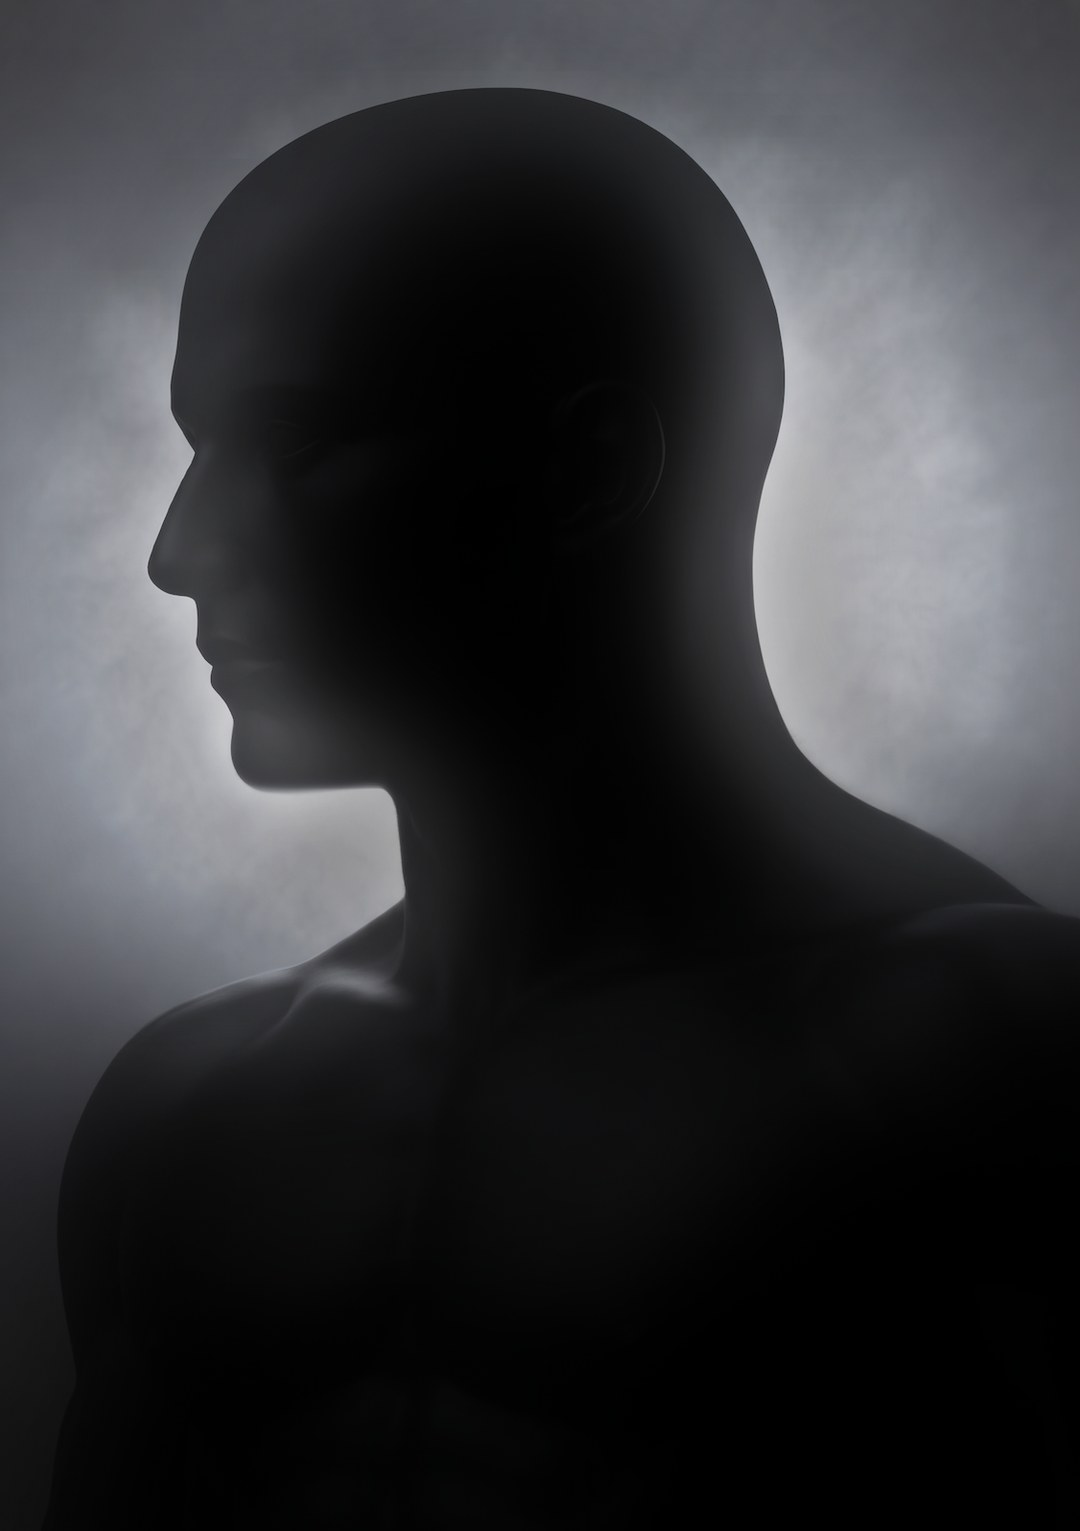
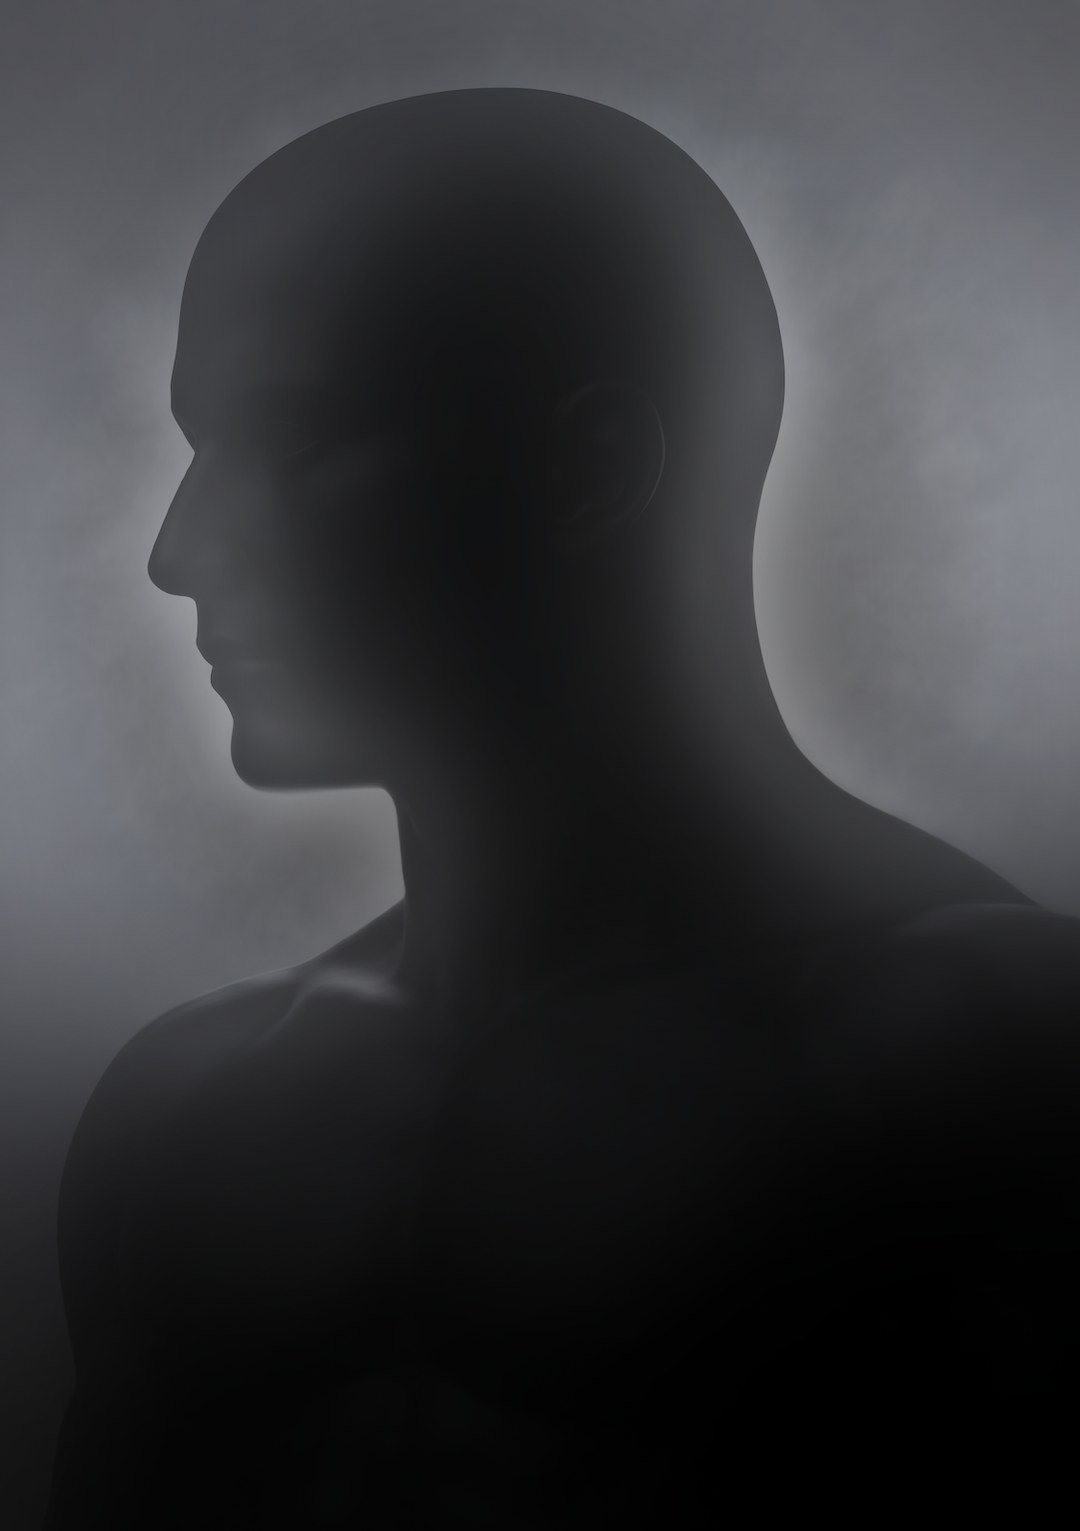
feat(app): 후광을 더 부드럽게, 인물을 더 보이게
빛을 한 겹이 아니라 가까운·중간·먼 세 겹으로 나눠 더한다. 한 가지 흐림만
쓰면 폭이 일정한 띠가 되어 인위적이다 — 세 겹이 겹치면 가장자리에서 안쪽으로
빠르게 잦아드는, 실제 감쇠에 가까운 결이 나온다. 먼 빛(반사광)은 0.10으로
아주 옅게 둔다: 세게 주면 인물 속까지 들려 깊이가 빠진다.

아래로 잦아드는 지점을 내렸다(0.72→0.88, 시작 0.45→0.62). 인물이 너무
일찍 잘려 보였다.

Changed region(s): [[0.3972, 0.0614, 0.9472, 0.5526], [0.0306, 0.1842, 0.3972, 0.6447], [0.9472, 0.0, 1.0, 0.1535]]

diff --git a/app/lib/features/home/presentation/screens/home_screen.dart b/app/lib/features/home/presentation/screens/home_screen.dart
@@ -19,9 +19,9 @@ const Color _kOnDark = Color(0xFFFFFFFF);
 
 /// 배경 인물이 화면에서 차지하는 높이 비율.
 ///
-/// 위쪽 3분의 2를 인물이 쓰고 아래는 검정으로 잦아든다 — 카드가 얼굴 위에
-/// 겹치지 않게 하려는 것이다.
-const double _kFigureHeightFactor = 0.72;
+/// 인물이 화면 대부분을 쓰고 맨 아래에서만 검정으로 잦아든다. 0.72였는데
+/// 아래가 너무 일찍 검어져 인물이 잘려 보였다.
+const double _kFigureHeightFactor = 0.88;
 
 /// 인물을 검정으로 잦아들게 하는 막.
 ///
@@ -30,8 +30,8 @@ const double _kFigureHeightFactor = 0.72;
 const LinearGradient _kFigureFade = LinearGradient(
   begin: Alignment.topCenter,
   end: Alignment.bottomCenter,
-  colors: [Color(0x00000000), Color(0x66000000), Color(0xFF000000)],
-  stops: [0.45, 0.78, 1],
+  colors: [Color(0x00000000), Color(0x4D000000), Color(0xFF000000)],
+  stops: [0.62, 0.88, 1],
 );
 
 /// 카드 면. 검정 위에 아주 옅은 흰 기 한 겹 — 로그인 버튼과 같은 방식이다.
